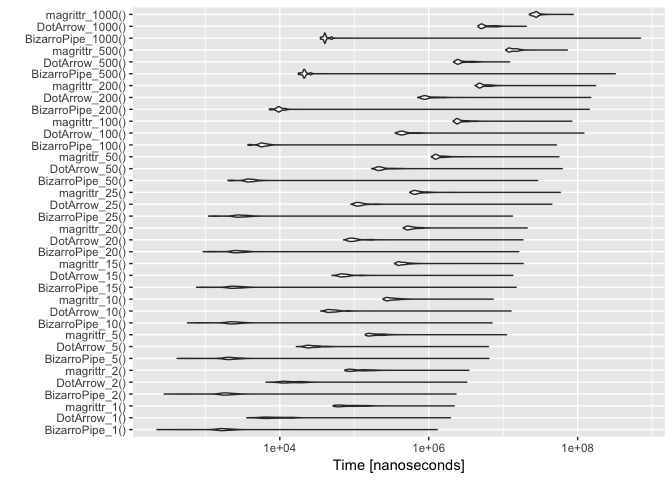
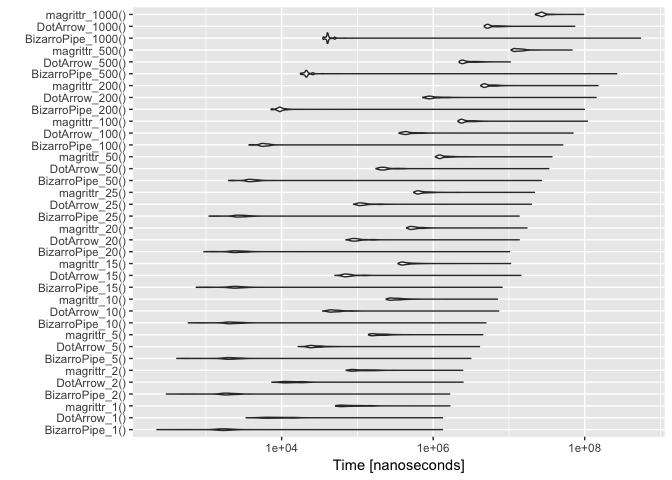
simplify code

diff --git a/extras/PipePerformance.md b/extras/PipePerformance.md
@@ -12,7 +12,6 @@ So we will compare:
 library("microbenchmark")
 library("wrapr")
 library("rlang")
-library("cdata")
 suppressPackageStartupMessages(library("ggplot2"))
 suppressPackageStartupMessages(library("dplyr"))
 
@@ -125,79 +124,79 @@ print(bm)
 
     ## Unit: nanoseconds
     ##                expr      min         lq         mean     median         uq
-    ##     BizarroPipe_1()      224     1456.0     3028.468     1716.0     2068.0
-    ##        DotArrow_1()     3606     6296.5    11296.372     8043.5    12000.0
-    ##        magrittr_1()    52211    61881.0    97921.153    78134.0   113014.0
-    ##     BizarroPipe_2()      280     1626.5     4300.036     1876.0     2203.0
-    ##        DotArrow_2()     6539    11125.5    18430.612    13469.0    18591.0
-    ##        magrittr_2()    74938    87578.0   128284.765   104058.0   144226.5
-    ##     BizarroPipe_5()      419     1838.0     8586.817     2116.0     2517.5
-    ##        DotArrow_5()    16669    23645.5    35724.839    26623.0    32285.5
-    ##        magrittr_5()   140997   158903.0   219690.548   185172.0   238438.0
-    ##    BizarroPipe_10()      576     1990.5     9570.262     2291.0     2691.5
-    ##       DotArrow_10()    35499    44865.0    70486.198    50407.5    58230.0
-    ##       magrittr_10()   243825   275742.5   358137.655   310144.0   370171.0
-    ##    BizarroPipe_15()      762     2113.5    17485.068     2441.5     2935.5
-    ##       DotArrow_15()    50319    66024.0    97642.487    72837.0    83993.5
-    ##       magrittr_15()   347678   395967.5   498992.854   439967.5   505985.0
-    ##    BizarroPipe_20()      936     2301.5    18904.232     2655.0     3137.5
-    ##       DotArrow_20()    71899    88174.0   126849.781    96956.0   109189.5
-    ##       magrittr_20()   453962   515434.5   659238.948   565808.0   655712.5
-    ##    BizarroPipe_25()     1108     2548.0    16374.421     2904.5     3504.5
-    ##       DotArrow_25()    90255   107883.0   178689.077   117539.0   132428.0
-    ##       magrittr_25()   555360   635962.5   868610.024   692523.5   819621.5
-    ##    BizarroPipe_50()     2015     3545.5    33183.461     3919.5     4477.5
-    ##       DotArrow_50()   171382   206916.0   385677.092   225937.5   260326.5
-    ##       magrittr_50()  1083284  1224776.0  1521985.645  1303377.5  1559205.5
-    ##   BizarroPipe_100()     3725     5451.5    58015.548     5862.5     6540.0
-    ##      DotArrow_100()   354725   416064.5   697291.211   453047.0   516655.0
-    ##      magrittr_100()  2125274  2376781.0  2889768.959  2504523.5  2995811.5
-    ##   BizarroPipe_200()     7232     9237.0   153575.795     9790.0    10612.0
-    ##      DotArrow_200()   710946   858683.0  1233831.116   930739.5  1160171.5
-    ##      magrittr_200()  4191558  4782150.5  5720562.327  5057867.0  6161918.5
-    ##   BizarroPipe_500()    17759    20691.0   342367.868    21357.5    22457.0
-    ##      DotArrow_500()  2162021  2425581.0  2944557.234  2568355.0  3226431.5
-    ##      magrittr_500() 10820195 12087366.5 14058924.672 13465332.5 15254981.0
-    ##  BizarroPipe_1000()    35103    39517.5   741656.471    40405.0    42584.0
-    ##     DotArrow_1000()  4588653  5070909.0  6172572.879  5364865.0  7072312.5
-    ##     magrittr_1000() 22425031 25855055.5 28538542.729 27675210.0 29454363.5
+    ##     BizarroPipe_1()      226     1451.5     3073.388     1710.0     2020.0
+    ##        DotArrow_1()     3399     6311.5    10960.226     8400.0    12234.0
+    ##        magrittr_1()    51563    62392.0    96210.794    78167.0   112172.0
+    ##     BizarroPipe_2()      301     1655.5     3615.250     1905.5     2286.5
+    ##        DotArrow_2()     7417    11005.5    17173.361    13420.5    17945.0
+    ##        magrittr_2()    71178    87227.0   126123.348   109092.0   149839.5
+    ##     BizarroPipe_5()      413     1776.0     5258.844     2083.0     2490.5
+    ##        DotArrow_5()    16564    23923.5    34814.715    26818.5    32473.0
+    ##        magrittr_5()   140340   158722.0   210880.070   188033.0   232612.5
+    ##    BizarroPipe_10()      586     1872.0     7183.610     2159.5     2649.0
+    ##       DotArrow_10()    34786    44012.0    64027.275    49869.5    58536.5
+    ##       magrittr_10()   239798   276751.0   360681.928   317073.5   375586.0
+    ##    BizarroPipe_15()      747     2068.5    10572.351     2427.0     2865.5
+    ##       DotArrow_15()    50390    67274.0    94111.351    73584.0    83614.5
+    ##       magrittr_15()   343770   386401.5   508935.113   424565.5   508126.5
+    ##    BizarroPipe_20()      941     2200.5    12900.858     2560.5     3085.0
+    ##       DotArrow_20()    70570    86628.5   122932.077    95550.0   108929.0
+    ##       magrittr_20()   444640   507337.0   653964.198   554364.5   653730.0
+    ##    BizarroPipe_25()     1101     2464.0    16581.396     2810.0     3316.5
+    ##       DotArrow_25()    88728   106344.5   161903.129   117039.5   137180.5
+    ##       magrittr_25()   553256   621487.0   780145.463   677510.0   813299.0
+    ##    BizarroPipe_50()     1991     3550.0    30843.050     3949.0     4542.5
+    ##       DotArrow_50()   175679   205205.0   289839.507   225568.5   261596.0
+    ##       magrittr_50()  1068384  1201436.5  1499192.711  1289780.5  1557395.0
+    ##   BizarroPipe_100()     3715     5341.5    57339.328     5842.0     6547.0
+    ##      DotArrow_100()   354255   417899.0   594851.072   452806.5   552232.0
+    ##      magrittr_100()  2126916  2343174.0  3066243.276  2490463.0  3083770.0
+    ##   BizarroPipe_200()     7254     9040.0   110353.522     9556.0    10359.5
+    ##      DotArrow_200()   727334   870134.0  1226515.314   950500.0  1191301.5
+    ##      magrittr_200()  4256147  4709369.0  5830680.017  5040547.5  6219399.5
+    ##   BizarroPipe_500()    17689    20423.5   285866.857    21215.0    22358.5
+    ##      DotArrow_500()  2207562  2408531.0  2957094.314  2553525.5  3353286.0
+    ##      magrittr_500() 10670267 11961561.0 13941130.201 13374642.0 15067881.5
+    ##  BizarroPipe_1000()    35055    39647.5   586863.439    40430.5    42015.5
+    ##     DotArrow_1000()  4722164  5150269.0  6360691.370  5426054.0  6948660.0
+    ##     magrittr_1000() 22350755 25585482.0 28207694.217 27239544.0 29197504.0
     ##        max neval
-    ##    1299179  1000
-    ##    1954328  1000
-    ##    2204271  1000
-    ##    2330361  1000
-    ##    3250646  1000
-    ##    3475298  1000
-    ##    6427700  1000
-    ##    6346690  1000
-    ##   11096358  1000
-    ##    7098441  1000
-    ##   12766802  1000
-    ##    7328721  1000
-    ##   14959734  1000
-    ##   13455706  1000
-    ##   18590050  1000
-    ##   16161281  1000
-    ##   18389435  1000
-    ##   21022635  1000
-    ##   13340910  1000
-    ##   45072878  1000
-    ##   58478566  1000
-    ##   29117284  1000
-    ##   62158809  1000
-    ##   56010384  1000
-    ##   51894755  1000
-    ##  121443622  1000
-    ##   83520050  1000
-    ##  143402276  1000
-    ##  149967485  1000
-    ##  174265324  1000
-    ##  320129689  1000
-    ##   12215359  1000
-    ##   72601294  1000
-    ##  698985083  1000
-    ##   20369501  1000
-    ##   87552746  1000
+    ##    1327990  1000
+    ##    1325586  1000
+    ##    1661000  1000
+    ##    1651533  1000
+    ##    2475916  1000
+    ##    2451826  1000
+    ##    3140186  1000
+    ##    4081814  1000
+    ##    4513917  1000
+    ##    4949999  1000
+    ##    7315646  1000
+    ##    7053937  1000
+    ##    8108798  1000
+    ##   14359380  1000
+    ##   10488140  1000
+    ##   10195019  1000
+    ##   13676048  1000
+    ##   17272650  1000
+    ##   13649410  1000
+    ##   19765553  1000
+    ##   21657400  1000
+    ##   26728284  1000
+    ##   33481564  1000
+    ##   37005550  1000
+    ##   51266300  1000
+    ##   70225446  1000
+    ##  108386743  1000
+    ##   98727860  1000
+    ##  141129422  1000
+    ##  149585199  1000
+    ##  263803977  1000
+    ##   10396681  1000
+    ##   67986923  1000
+    ##  544726576  1000
+    ##   73819285  1000
+    ##   96596682  1000
 
 ``` r
 autoplot(bm)
@@ -271,21 +270,10 @@ dfits <- d %.>%
   lapply(., function(fi) {
     ctab <- as.data.frame(summary(fi)$coefficients)
     ctab$coef <- rownames(ctab)
-    ctab <- moveValuesToRows(ctab, 
-                             nameForNewKeyColumn = 'meas', 
-                             nameForNewValueColumn = 'value', 
-                             columnsToTakeFrom = c('Estimate',  
-                                                   'Std. Error',   
-                                                   't value',  
-                                                   'Pr(>|t|)'))
     ctab
   }) %.>%
   add_name_column(., 'method') %.>%
   bind_rows(.) %.>%
-  moveValuesToColumns(., 
-                      columnToTakeKeysFrom = 'meas', 
-                      columnToTakeValuesFrom = 'value',
-                      rowKeyColumns = c('method', 'coef')) %.>%
   arrange(., method, coef) %.>%
   select(.,  method, coef, Estimate, `Std. Error`,  `t value`, `Pr(>|t|)`)
 
@@ -295,10 +283,17 @@ dfits <- d %.>%
 print(dfits)
 ```
 
-    ##        method        coef   Estimate  Std. Error       t value    Pr(>|t|)
-    ## 1 BizarroPipe (Intercept)  -104.8383 74864.65818  -0.001400371 0.998882689
-    ## 2 BizarroPipe        size   730.4494   227.11648   3.216188532 0.001302499
-    ## 3    DotArrow (Intercept) 17321.8487 22163.65965   0.781542804 0.434498733
-    ## 4    DotArrow        size  6102.2753    67.23777  90.756661231 0.000000000
-    ## 5    magrittr (Intercept) 72776.6444 29194.32930   2.492834950 0.012686150
-    ## 6    magrittr        size 28364.8032    88.56667 320.264986289 0.000000000
+    ##        method        coef    Estimate  Std. Error      t value
+    ## 1 BizarroPipe (Intercept)    715.3056 58787.48847   0.01216765
+    ## 2 BizarroPipe        size    581.8819   178.34327   3.26270720
+    ## 3    DotArrow (Intercept) -15495.5141 19544.46333  -0.79283395
+    ## 4    DotArrow        size   6286.7531    59.29193 106.03050754
+    ## 5    magrittr (Intercept)  99423.0080 29018.69332   3.42617108
+    ## 6    magrittr        size  28054.3596    88.03384 318.67698168
+    ##       Pr(>|t|)
+    ## 1 0.9902920618
+    ## 2 0.0011066198
+    ## 3 0.4278902489
+    ## 4 0.0000000000
+    ## 5 0.0006142065
+    ## 6 0.0000000000
